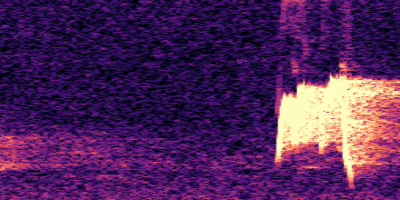
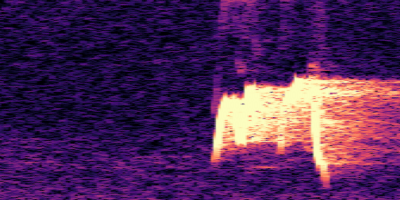
Version 3.42 updates: Help text improvements and audio trimming
- Help.tsx: Add neuroplasticity section, shorten left/right explanation
- PackSelect.tsx: Replace "Queue" with "Add"/"Build" in custom pack examples
- levels.json: Fix western_birds Level 4 to use canonical clips
- Trim 500ms silence from ACFL_839505.wav canonical clip
- Canonical flag updates: DOWO, WTSP (via review tool)
- Regenerate spectrograms for trimmed clips

🤖 Generated with [Claude Code](https://claude.com/claude-code)

diff --git a/src/ui-app/screens/Help.tsx b/src/ui-app/screens/Help.tsx
@@ -130,7 +130,10 @@ function Help() {
             Birds are <em>heard</em> way more often than they're <em>seen</em>. Once you know the songs, you'll know what to look for - and suddenly your backyard becomes way more interesting.
           </p>
           <p style={{ marginBottom: '12px' }}>
-            <strong>Why the left/right thing?</strong> It feels like a hearing test because that's birding! In the field, you're constantly triangulating: "Cardinal to my left, chickadee to my right, warbler... somewhere up there?" This game mimics that chaos. Plus, training your ears to separate simultaneous sounds - like a pianist controlling both hands independently - dramatically sharpens your birding skills.
+            <strong>Why the left/right thing?</strong> That's birding! You're constantly triangulating: "Cardinal to my left, chickadee to my right, warbler... somewhere up there?" Training your ears to separate simultaneous sounds - like a pianist controlling both hands - dramatically sharpens your field skills.
+          </p>
+          <p style={{ marginBottom: '12px' }}>
+            <strong>Neuroplasticity works:</strong> Your brain rewires with practice. These sound patterns feel impossible at first, but repeated exposure trains your auditory cortex faster than you'd think. Give it a few sessions - you'll be amazed what you can hear.
           </p>
           <p style={{ fontSize: '14px', color: 'var(--color-text-muted)' }}>
             <strong>Need real-time ID?</strong> Get Cornell's free <a href="https://merlin.allaboutbirds.org/" target="_blank" rel="noopener noreferrer" style={{ color: 'var(--color-accent)' }}>Merlin app</a> - it's magic for "what bird is that singing <em>right now</em>?"

diff --git a/src/ui-app/screens/PackSelect.tsx b/src/ui-app/screens/PackSelect.tsx
@@ -525,10 +525,10 @@ function PackSelect() {
           lineHeight: 1.6,
         }}>
           <div style={{ marginBottom: '8px' }}>
-            <span style={{ color: 'var(--color-accent)' }}>→</span> Got a nemesis bird? Queue it up and drill all its variations.
+            <span style={{ color: 'var(--color-accent)' }}>→</span> Got a nemesis bird? Add it and drill all its variations.
           </div>
           <div style={{ marginBottom: showMoreExamples ? '8px' : '12px' }}>
-            <span style={{ color: 'var(--color-accent)' }}>→</span> A friend's eBird checklist has you jealous? Queue up their birds, and it will be like you were there.
+            <span style={{ color: 'var(--color-accent)' }}>→</span> A friend's eBird checklist has you jealous? Build their list and practice like you were there.
           </div>
 
           {showMoreExamples && (
